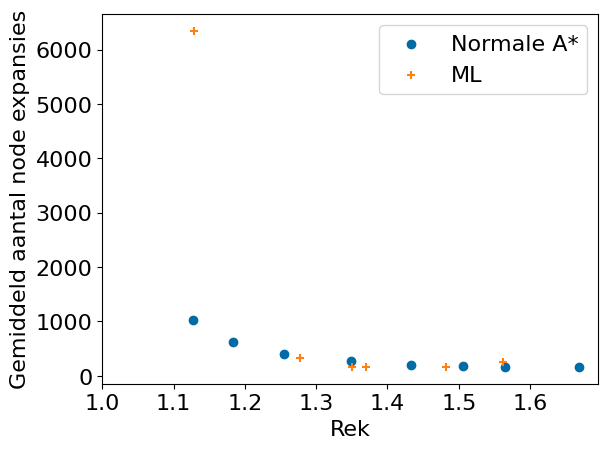
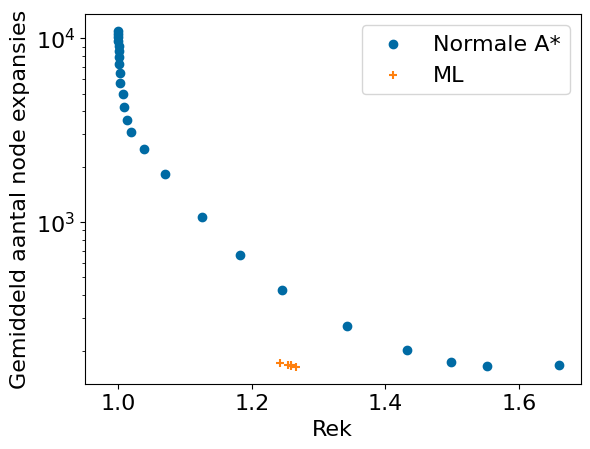
plotje met welke nodes geexpandeerd in dijkstra, a*, en linear ook bezig met phd string (grenzen oneindig gelukt) op punt van implementatie kdtree

diff --git a/phd_spring.py b/phd_spring.py
@@ -1,14 +1,22 @@
 import networkx as nx
 import numpy as np
+import matplotlib.pyplot as plt
+from shapely.geometry import Point, Polygon
+from scipy.spatial import Voronoi
+
+def force_ij(xi, xj, lij, kappa, travel_time):
+
+    return kappa * (lij - np.linalg.norm(xi-xj)) * (xi-xj) /  np.linalg.norm(xi-xj) 
 
 def springen(city, iterations): # NEW TECHNIQUES FOR GEOGRAPHIC ROUTING PHD PAPER
-
+    infinite_edges = [[-10000,-10000],[0,-10000], [10000,-10000], [-10000,0],[-10000,10000], [10000,10000],[10000,0],[0,10000]]
+    
     graph = nx.read_gpickle(f'./graph_pickle/{city}.gpickle')
 
     new_coordinates = dict()
 
     for node in graph.nodes():
-        new_coordinates[node] = np.array([node['x'], node['y']])
+        new_coordinates[node] = np.array([graph.nodes[node]['x'], graph.nodes[node]['y']])
 
     # for each node we will now add the percentage of common neighbors this way we don't have to calculate this every time we will just keep this in a seperate dictionary
 
@@ -21,12 +29,88 @@ def springen(city, iterations): # NEW TECHNIQUES FOR GEOGRAPHIC ROUTING PHD PAPE
         for neighbor in si:
             sj = set(nx.neighbors(graph, neighbor))
             sij = si.intersection(sj)
-            
+                
             percentage_dict[node][neighbor] = len(sij) / (len(sij) + len(si) + len(sj))
 
-    print(percentage_dict)
+            if neighbor in percentage_dict:
+                assert percentage_dict[node][neighbor] == percentage_dict[neighbor][node], "asymmetry detected"
 
-springen('Brugge',1)
+
+    for node1, node2, travel_time in graph.edges(data='travel_time'): # possible later adaptation with traveltime with lmin and lmax
+        lmin = 0.00005 
+        lmax = 0.01 * (1+travel_time/10) ** (1/2)
+        
+        graph[node1][node2]['rest_length'] = lmin + (1 - percentage_dict[node1][node2]) * (lmax - lmin) 
+        
+    kappa = 0.5
+    delta = 0.5
+    R_max = 10
+
+    """
+    nx.draw_networkx_nodes(graph, new_coordinates, node_size=1) # new layout specifies positions
+    
+    labels = nx.get_edge_attributes(graph,'travel_time')
+    nx.draw_networkx_edges(graph, pos=new_coordinates, edgelist=None, width=0.5, node_size=1)
+    nx.draw_networkx_edge_labels(graph, pos=new_coordinates, edge_labels=labels, label_pos=0.5, font_size=3)
+    plt.savefig('./semester2/springlayout/Brugge_gespringed_vooraf.png', dpi=500)
+    plt.clf()
+    """
+    
+    for i in range(iterations):
+        force_dict = dict()
+        for node in graph.nodes():
+            force_dict[node] = 0
+
+        for node1, node2, travel_time in graph.edges(data='travel_time'):
+            coordinate_i = new_coordinates[node1]
+            coordinate_j = new_coordinates[node2]
+
+            force_on_i = force_ij(coordinate_i, coordinate_j, graph[node1][node2]['rest_length'], kappa, travel_time)
+            force_on_j = - force_on_i # look it's newton
+
+            force_dict[node1] += force_on_i
+            force_dict[node2] += force_on_j
+
+        repulsion_force = dict()
+
+        for r, node in enumerate(graph.nodes()):
+            print(r)
+            repulsion_force[node] = 0
+            
+            coor_list = [new_coordinates[neighbor]]
+
+            for neighbor in nx.neighbors(graph, node):
+                coor_list.append(new_coordinates[neighbor])
+            
+            coor_list += infinite_edges # make sure our voronoi cell is closed
+            vor = Voronoi(coor_list)
+            
+            index = vor.point_region[0] # there might be multiple closed cells so chose the right one for our region of ownership
+            pol = Polygon([vor.vertices[q] for q in vor.regions[index]])
+            
+            for possible_intruder in graph.nodes(): # speed up possible by kdtrees
+                if possible_intruder != node: # neighbors cant lie inside only our current node will be for sure
+                    if pol.contains(Point(new_coordinates[possible_intruder])):
+                        
+                        unit_vector = (new_coordinates[node]-new_coordinates[possible_intruder]) / np.linalg.norm(new_coordinates[node]-new_coordinates[possible_intruder])
+                        repulsion_force[node] += delta * unit_vector
+
+
+        for node in graph.nodes():
+
+            repulsion_force[node] = min(np.linalg.norm(repulsion_force[node]), R_max) / np.linalg.norm(repulsion_force[node]) * repulsion_force[node]
+            print(repulsion_force)
+            new_coordinates[node] += force_dict[node] + repulsion_force[node] 
+
+        print(i)
+    nx.draw_networkx_nodes(graph, new_coordinates, node_size=1) # new layout specifies positions
+
+    labels = nx.get_edge_attributes(graph,'travel_time')
+    nx.draw_networkx_edges(graph, pos=new_coordinates, edgelist=None, width=0.5, node_size=1)
+    nx.draw_networkx_edge_labels(graph, pos=new_coordinates, edge_labels=labels, label_pos=0.5, font_size=3)
+    plt.savefig('./semester2/springlayout/Brugge_gespringed_achteraf.png', dpi=500)
+    plt.clf()
+springen('Brugge', 10)
     
 
     

diff --git a/expanded_nodes.py b/expanded_nodes.py
@@ -1,0 +1,122 @@
+import networkx as nx
+import random
+import numpy as np
+import fix_graph_data
+import matplotlib.pyplot as plt
+import a_star
+import dijkstra_with_priority_que
+import linear
+
+random.seed(42)
+
+def return_path(start_node, end_node, came_from):
+    
+    current_node = end_node
+    path = {end_node}
+    
+    while start_node not in path:
+        current_node = came_from[current_node]
+        path.add(current_node)
+
+    return path
+
+def plot(visited, start, end, graph, path, name):
+
+    node_list_start = list()
+    node_list_end = list()
+    node_list_path = list()
+    node_list_expanded = list()
+    node_list_rest = list()
+
+    node_size_start = list()
+    node_size_end = list()
+    node_size_path = list()
+    node_size_expanded = list()
+    node_size_rest = list()
+
+    color_start = list()
+    color_end = list()
+    color_path = list()
+    color_expanded = list()
+    color_rest = list()
+    
+    alpha_start = list()
+    alpha_end = list()
+    alpha_path = list()
+    alpha_expanded = list()
+    alpha_rest = list()
+    
+    for node in graph.nodes():
+  
+        if node==start:
+            node_size_start.append(100)
+            alpha_start.append(1)
+            color_start.append('r')
+            node_list_start.append(node)
+        elif node == end:
+            node_size_end.append(100)
+            alpha_end.append(1)
+            color_end.append('g')
+            node_list_end.append(node)
+        elif node in path:
+            node_size_path.append(10)
+            color_path.append('y')
+            alpha_path.append(0.8)
+            node_list_path.append(node)
+        
+        elif node in visited:
+            node_size_expanded.append(6)
+            color_expanded.append('c')
+            alpha_expanded.append(0.2)
+            node_list_expanded.append(node)
+            
+        else:
+            node_size_rest.append(2)
+            color_rest.append('k')
+            alpha_rest.append(0.15)
+            node_list_rest.append(node)
+
+
+    nx.draw_networkx_nodes(graph, nodelist=node_list_expanded,pos=new_coordinates, node_color=color_expanded, node_size=node_size_expanded, alpha=alpha_expanded, node_shape='s', label='Geëxpandeerd')
+    nx.draw_networkx_nodes(graph, nodelist=node_list_rest,pos=new_coordinates, node_color=color_rest, node_size=node_size_rest, alpha=alpha_rest, label='Overige')
+    nx.draw_networkx_nodes(graph, nodelist=node_list_path,pos=new_coordinates, node_color=color_path, node_size=node_size_path, alpha=alpha_path, node_shape='v', label='Pad')
+    nx.draw_networkx_nodes(graph, nodelist=node_list_start,pos=new_coordinates, node_color=color_start, node_size=node_size_start, alpha=alpha_start, node_shape='8', label='Start')
+    nx.draw_networkx_nodes(graph, nodelist=node_list_end,pos=new_coordinates, node_color=color_end, node_size=node_size_end, alpha=alpha_end, node_shape='h', label='Bestemming')
+    
+    plt.legend(loc='center left', bbox_to_anchor=(1, 0.5))
+    plt.savefig(f'./semester2/expansions/{name}',  bbox_inches='tight')
+
+    plt.clf()
+
+city = 'big_graph'
+number_of_paths = 1
+number_of_landmarks = 8
+graph = nx.read_gpickle(f'./graph_pickle/{city}.gpickle')
+    
+node_list = list(graph.nodes())
+
+how_many = 2 * number_of_paths
+random_generated = random.sample(node_list, k=how_many)
+start_nodes = random_generated[:number_of_paths]
+end_nodes = random_generated[number_of_paths:]
+
+new_coordinates = dict()
+max_velocity = fix_graph_data.get_max_velocity(graph) # gets the max velocity of all edges, useful for A*
+
+clf = linear.add_amount_of_visited_weights(graph, number_of_landmarks=number_of_landmarks, cutoff=True)
+
+for node in graph.nodes():
+    new_coordinates[node] = np.array([graph.nodes[node]['x'], graph.nodes[node]['y']])
+
+visited, came_from = a_star.A_star_priority_queue(start_nodes[0], end_nodes[0], graph, max_velocity, return_counter=False, return_visited=True)
+path = return_path(start_nodes[0], end_nodes[0], came_from)
+plot(visited, start_nodes[0], end_nodes[0], graph, path ,f'a*_{city}')
+
+visited, came_from = dijkstra_with_priority_que.dijkstra_with_priority_queue_to_node(start_nodes[0], end_nodes[0], graph, return_visited=True)
+path = return_path(start_nodes[0], end_nodes[0], came_from)
+plot(visited, start_nodes[0], end_nodes[0], graph, path,f'dijkstra_{city}')
+
+visited, came_from = linear.priority_queue_new_evaluation_function(start_nodes[0], end_nodes[0], graph, clf, return_visited=True)
+path = return_path(start_nodes[0], end_nodes[0], came_from)
+
+plot(visited, start_nodes[0], end_nodes[0], graph, path,f'linear_{city}')

diff --git a/dijkstra_with_priority_que.py b/dijkstra_with_priority_que.py
@@ -56,7 +56,7 @@ def dijkstra_with_priority_queue(id1, graph):
 # do timing to compare with dijkstra
 
 
-def dijkstra_with_priority_queue_to_node(id1, id2, graph):
+def dijkstra_with_priority_queue_to_node(id1, id2, graph, return_visited=False):
     """
     function that calculates the time from node_id1 first argument to noide_id2 other nodes given graph
     """
@@ -66,6 +66,7 @@ def dijkstra_with_priority_queue_to_node(id1, id2, graph):
     
     time_queue = PriorityQueue()
     times = dict()
+    came_from = dict()
     
     for node_id in unvisited_nodes:
       if node_id != id1:
@@ -85,6 +86,7 @@ def dijkstra_with_priority_queue_to_node(id1, id2, graph):
           new_weight = edge_weight +  times[current_node]
           if times[neighbor_node] > new_weight:
             times[neighbor_node] = new_weight
+            came_from[neighbor_node] = current_node
             time_queue.put((new_weight, neighbor_node))           
       
         visited_nodes.add(current_node)
@@ -98,6 +100,8 @@ def dijkstra_with_priority_queue_to_node(id1, id2, graph):
             #print('some roads have no connection')
             break
 
+    if return_visited is True:
+        return visited_nodes, came_from
     return times[id2]
 
 #print(dijkstra_with_priority_queue_to_node(9121386338,1692433918, graph_basic))

diff --git a/linear.py b/linear.py
@@ -103,7 +103,7 @@ def add_amount_of_visited_weights(graph, number_of_landmarks, cutoff=False, extr
 def output_function(weights, vals):
     return np.sum(weights * vals)
 
-def priority_queue_new_evaluation_function(id1, id2, graph, weight_function, ratio_travelled=False, return_counter=False): # id1 is start node id2 is go to node
+def priority_queue_new_evaluation_function(id1, id2, graph, weight_function, ratio_travelled=False, return_counter=False, return_visited=False): # id1 is start node id2 is go to node
     inf = np.inf
     # heuristic function 
     total_nodes = graph.nodes()
@@ -131,10 +131,12 @@ def priority_queue_new_evaluation_function(id1, id2, graph, weight_function, rat
     while priority_queue.empty() is False:
         _ , current_node = priority_queue.get() # first attribute is the weight
     
-        #if current_node in visited: # don't want to visit same node twice
-            #continue
+        if current_node in visited: # DEES WERD AANGEPAST 
+            continue
         
         if current_node == id2:
+            if return_visited is True:
+                return visited, came_from
             
             if ratio_travelled is False:
                 

diff --git a/compare_node_expansion.py b/compare_node_expansion.py
@@ -312,7 +312,7 @@ def node_expansions_vs_stretch(city, number_of_paths, number_of_landmarks, cutof
 
     x_list_linear = list()
     y_list_linear = list()
-    for extra_factor in range(0, 12,2):
+    for extra_factor in range(2, 12,2):
         clf = linear.add_amount_of_visited_weights(graph, number_of_landmarks=number_of_landmarks, cutoff=cutoff, extra_factor=extra_factor)
     
         length = list()
@@ -351,18 +351,19 @@ def node_expansions_vs_stretch(city, number_of_paths, number_of_landmarks, cutof
     
        
 # make_graphs_NN('Brugge', 50)
-# name_list = ['New Dehli','Brugge','Nairobi', 'Rio de Janeiro', 'Manhattan']
+ame_list = ['New Dehli','Brugge','Nairobi', 'Rio de Janeiro', 'Manhattan', 'big_graph']
 
-node_expansions_vs_stretch('Brugge', 150, 10)    
+node_expansions_vs_stretch('big_graph', 150, 8)    
 
 """
 name_list = ['Brugge']
 for name in name_list:
-    
+    print(name)
     make_graphs_logistic(name, 150, 15, cutoff=True)
-
-
 """
+
+
+
 
 
 

diff --git a/a_star.py b/a_star.py
@@ -62,7 +62,7 @@ def A_star(id1, id2, graph, velocity): # id1 is start node id2 is go to node
 
 
 
-def A_star_priority_queue(id1, id2, graph, velocity, return_counter=False): # id1 is start node id2 is go to node
+def A_star_priority_queue(id1, id2, graph, velocity, return_counter=False, return_visited=False): # id1 is start node id2 is go to node
     inf = np.inf
     # heuristic function 
     total_nodes = graph.nodes()
@@ -100,6 +100,9 @@ def A_star_priority_queue(id1, id2, graph, velocity, return_counter=False): # id
             
             if return_counter is True:
                 return g_score[id2], teller
+
+            if return_visited is True:
+                return visited, came_from
             return g_score[id2]
         
         teller += 1
